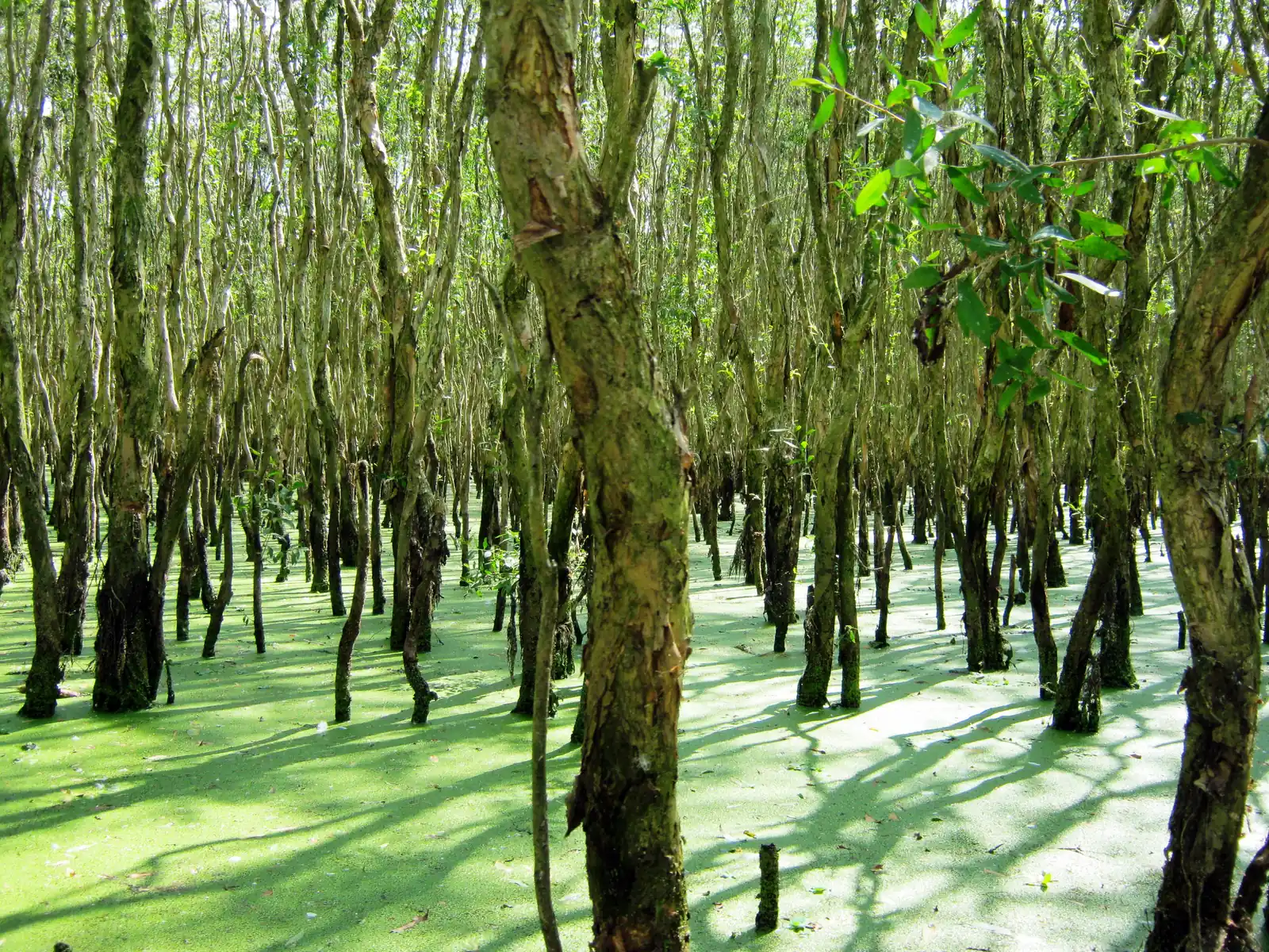
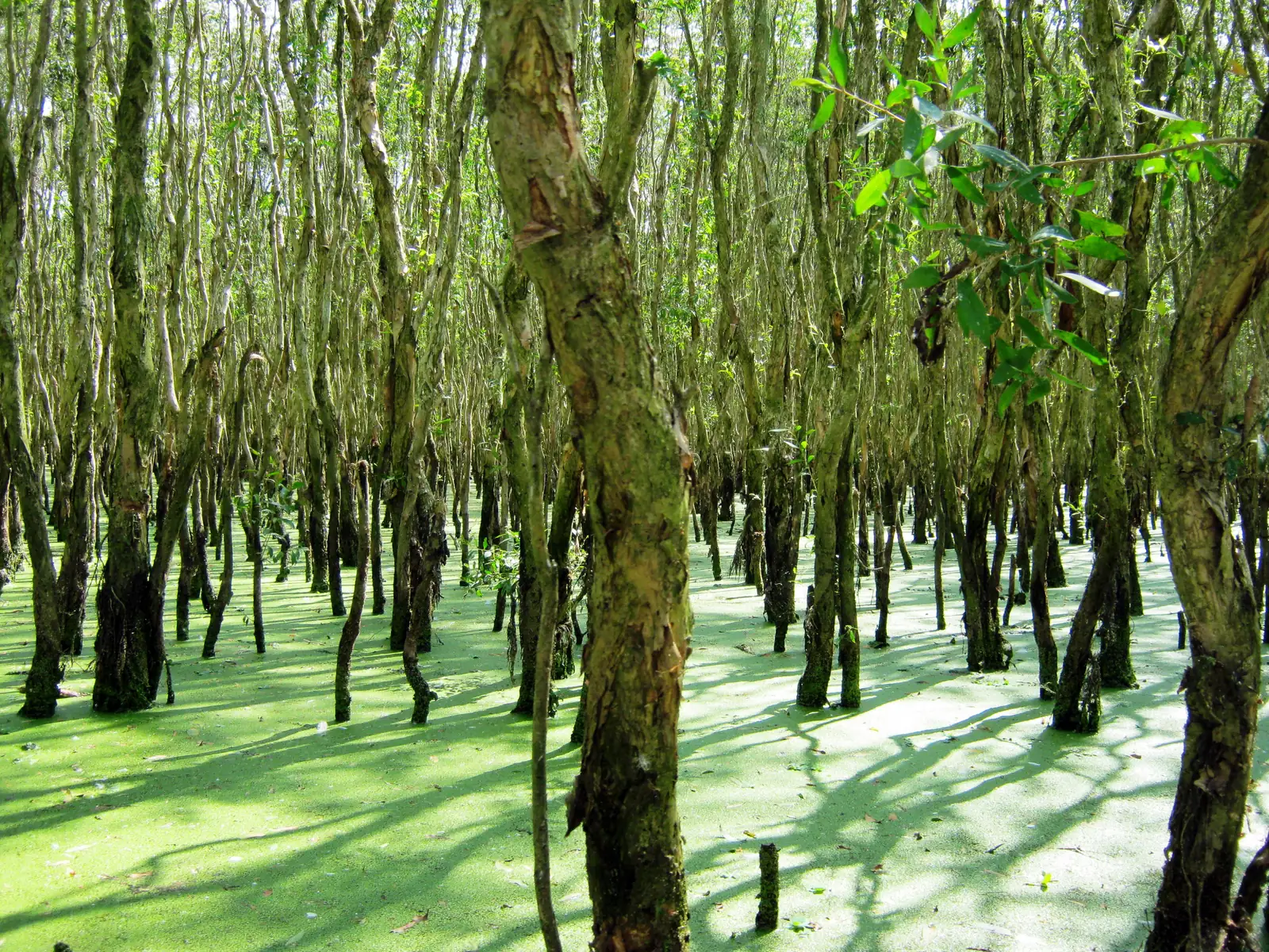
chore(seed-assets): An Giang photo at WebP quality 64 (395 KB); q42 smeared the bark at full size

diff --git a/apps/api/seed-assets/destinations/CREDITS.md b/apps/api/seed-assets/destinations/CREDITS.md
@@ -14,7 +14,7 @@ Mọi ảnh trong thư mục này lấy từ [Wikimedia Commons](https://commons
 | `khanh-hoa.webp` | Vịnh Nha Trang (Khánh Hòa) | Arriving in Nha Trang - Vietnam | bvi4092 | [CC BY 2.0](https://creativecommons.org/licenses/by/2.0) | [Commons](https://commons.wikimedia.org/wiki/File:Arriving_in_Nha_Trang_-_Vietnam.jpg) | Thu nhỏ từ 3000×1688 xuống 1600×900, chuyển sang WebP (chất lượng 82), bỏ metadata EXIF. |
 | `lam-dong.webp` | Hồ Xuân Hương, Đà Lạt (Lâm Đồng) | Xuan Huong Lake 05 | Diane Selwyn | [Public domain](https://commons.wikimedia.org/wiki/Template:PD-self) | [Commons](https://commons.wikimedia.org/wiki/File:Xuan_Huong_Lake_05.jpg) | Thu nhỏ từ 3072×2304 xuống 1600×1200, chuyển sang WebP (chất lượng 82), bỏ metadata EXIF. |
 | `lao-cai.webp` | Ruộng bậc thang Sa Pa (Lào Cai) | Rice terraces in Sa Pa 02 | Christophe95 | [CC BY-SA 4.0](https://creativecommons.org/licenses/by-sa/4.0) | [Commons](https://commons.wikimedia.org/wiki/File:Rice_terraces_in_Sa_Pa_02.jpg) | Thu nhỏ từ 5079×3150 xuống 1600×993, chuyển sang WebP (chất lượng 82), bỏ metadata EXIF. |
-| `an-giang.webp` | Rừng tràm Trà Sư (An Giang) | Rừng tràm Trà Sư | Bùi Thụy Đào Nguyên | [CC BY-SA 3.0](https://creativecommons.org/licenses/by-sa/3.0) | [Commons](https://commons.wikimedia.org/wiki/File:R%E1%BB%ABng_tr%C3%A0m_Tr%C3%A0_S%C6%B0.jpg) | Thu nhỏ từ 3648×2736 xuống 1600×1200, chuyển sang WebP (chất lượng 42), bỏ metadata EXIF. |
+| `an-giang.webp` | Rừng tràm Trà Sư (An Giang) | Rừng tràm Trà Sư | Bùi Thụy Đào Nguyên | [CC BY-SA 3.0](https://creativecommons.org/licenses/by-sa/3.0) | [Commons](https://commons.wikimedia.org/wiki/File:R%E1%BB%ABng_tr%C3%A0m_Tr%C3%A0_S%C6%B0.jpg) | Thu nhỏ từ 3648×2736 xuống 1600×1200, chuyển sang WebP (chất lượng 64), bỏ metadata EXIF. |
 | `can-tho.webp` | Cầu Cần Thơ trên sông Hậu (Cần Thơ) | Cau-can-tho-tuonglamphotos | Tuong Lam Photos | [CC BY-SA 4.0](https://creativecommons.org/licenses/by-sa/4.0) | [Commons](https://commons.wikimedia.org/wiki/File:Cau-can-tho-tuonglamphotos.jpg) | Thu nhỏ từ 4000×2250 xuống 1600×900, chuyển sang WebP (chất lượng 82), bỏ metadata EXIF. |
 | `quang-ninh.webp` | Vịnh Hạ Long (Quảng Ninh) | Ha Long Bay, Vietnam, View from above | © Vyacheslav Argenberg | [CC BY 4.0](https://creativecommons.org/licenses/by/4.0) | [Commons](https://commons.wikimedia.org/wiki/File:Ha_Long_Bay,_Vietnam,_View_from_above.jpg) | Thu nhỏ từ 3984×2656 xuống 1600×1067, chuyển sang WebP (chất lượng 82), bỏ metadata EXIF. |
 | `hue.webp` | Ngọ Môn, Hoàng thành Huế (Huế) | Meridian Gate, Hue (I) | Supanut Arunoprayote | [CC BY 4.0](https://creativecommons.org/licenses/by/4.0) | [Commons](https://commons.wikimedia.org/wiki/File:Meridian_Gate,_Hue_(I).jpg) | Thu nhỏ từ 4078×2294 xuống 1600×900, chuyển sang WebP (chất lượng 82), bỏ metadata EXIF. |
